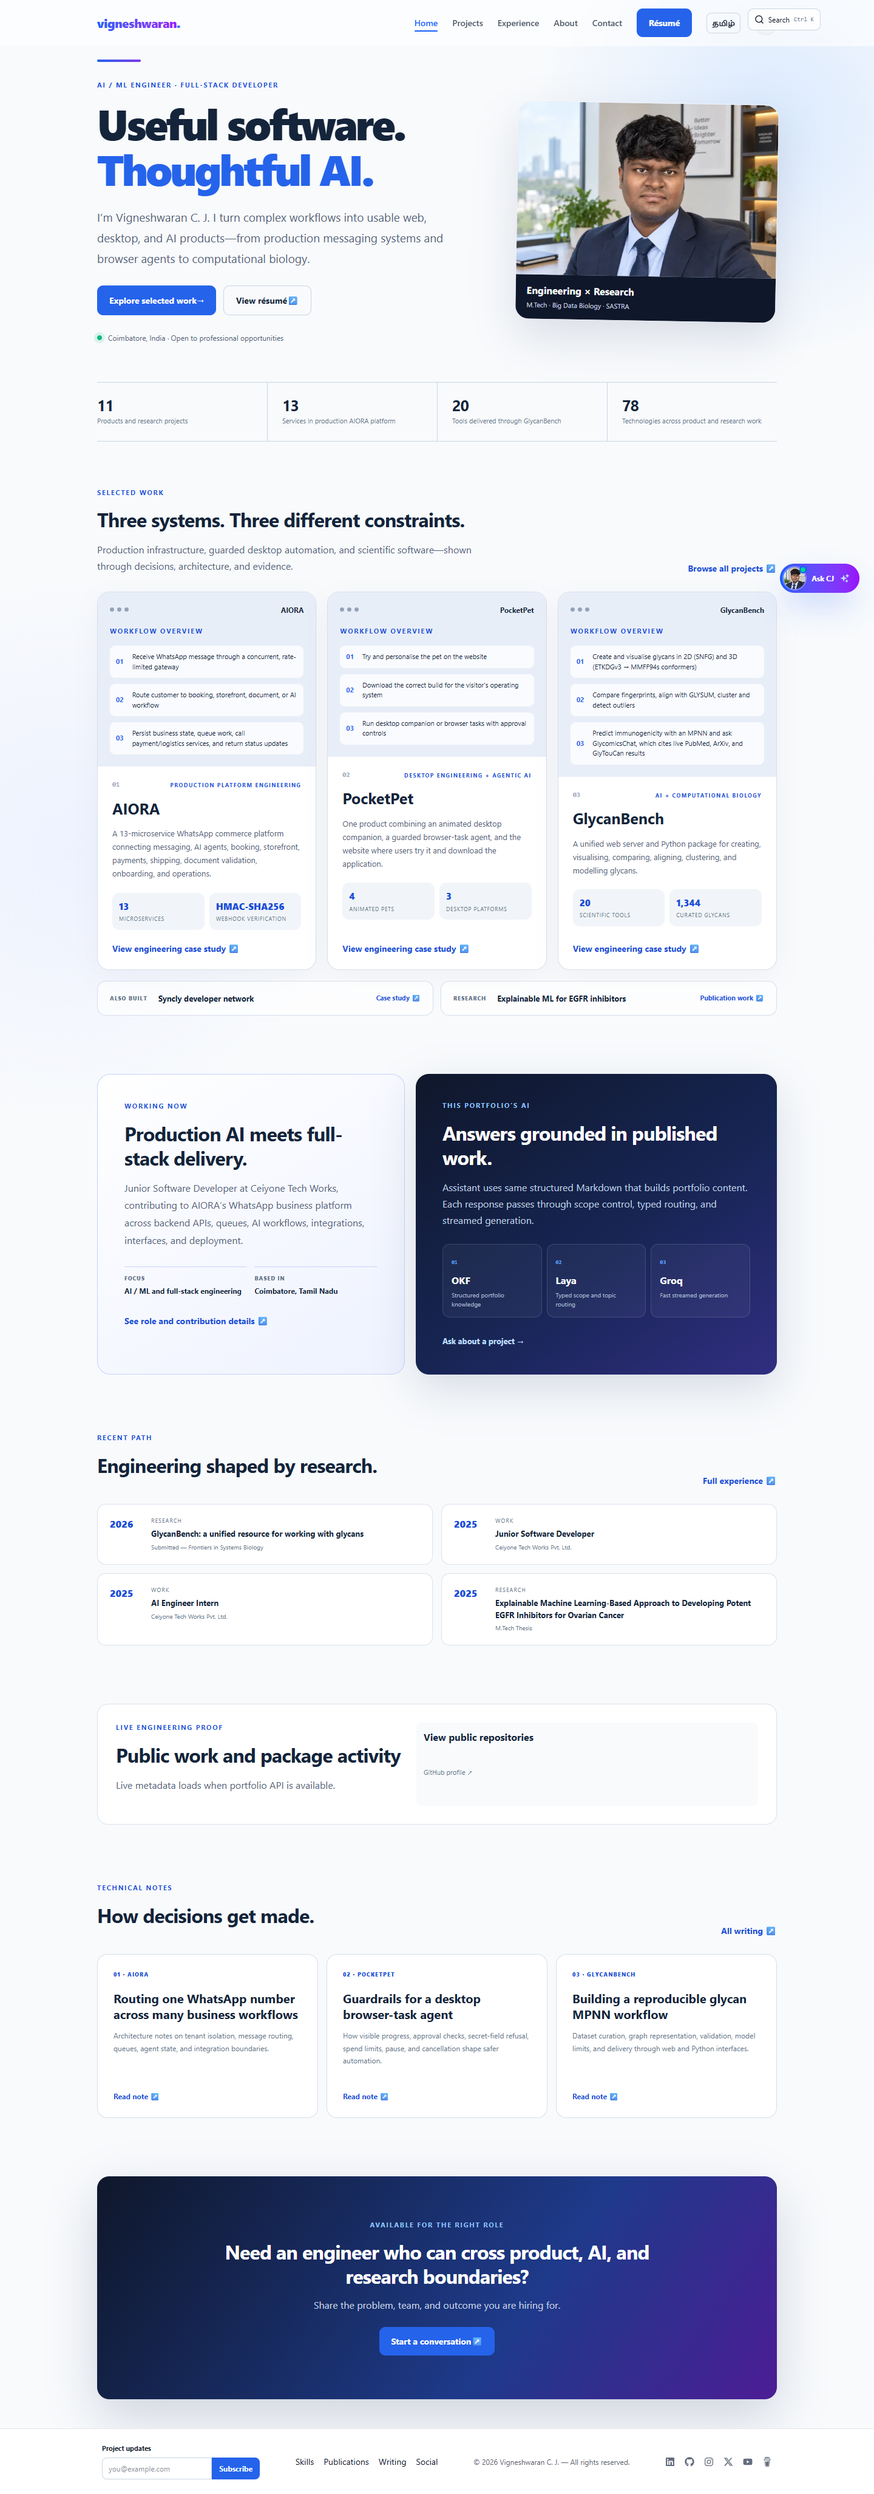
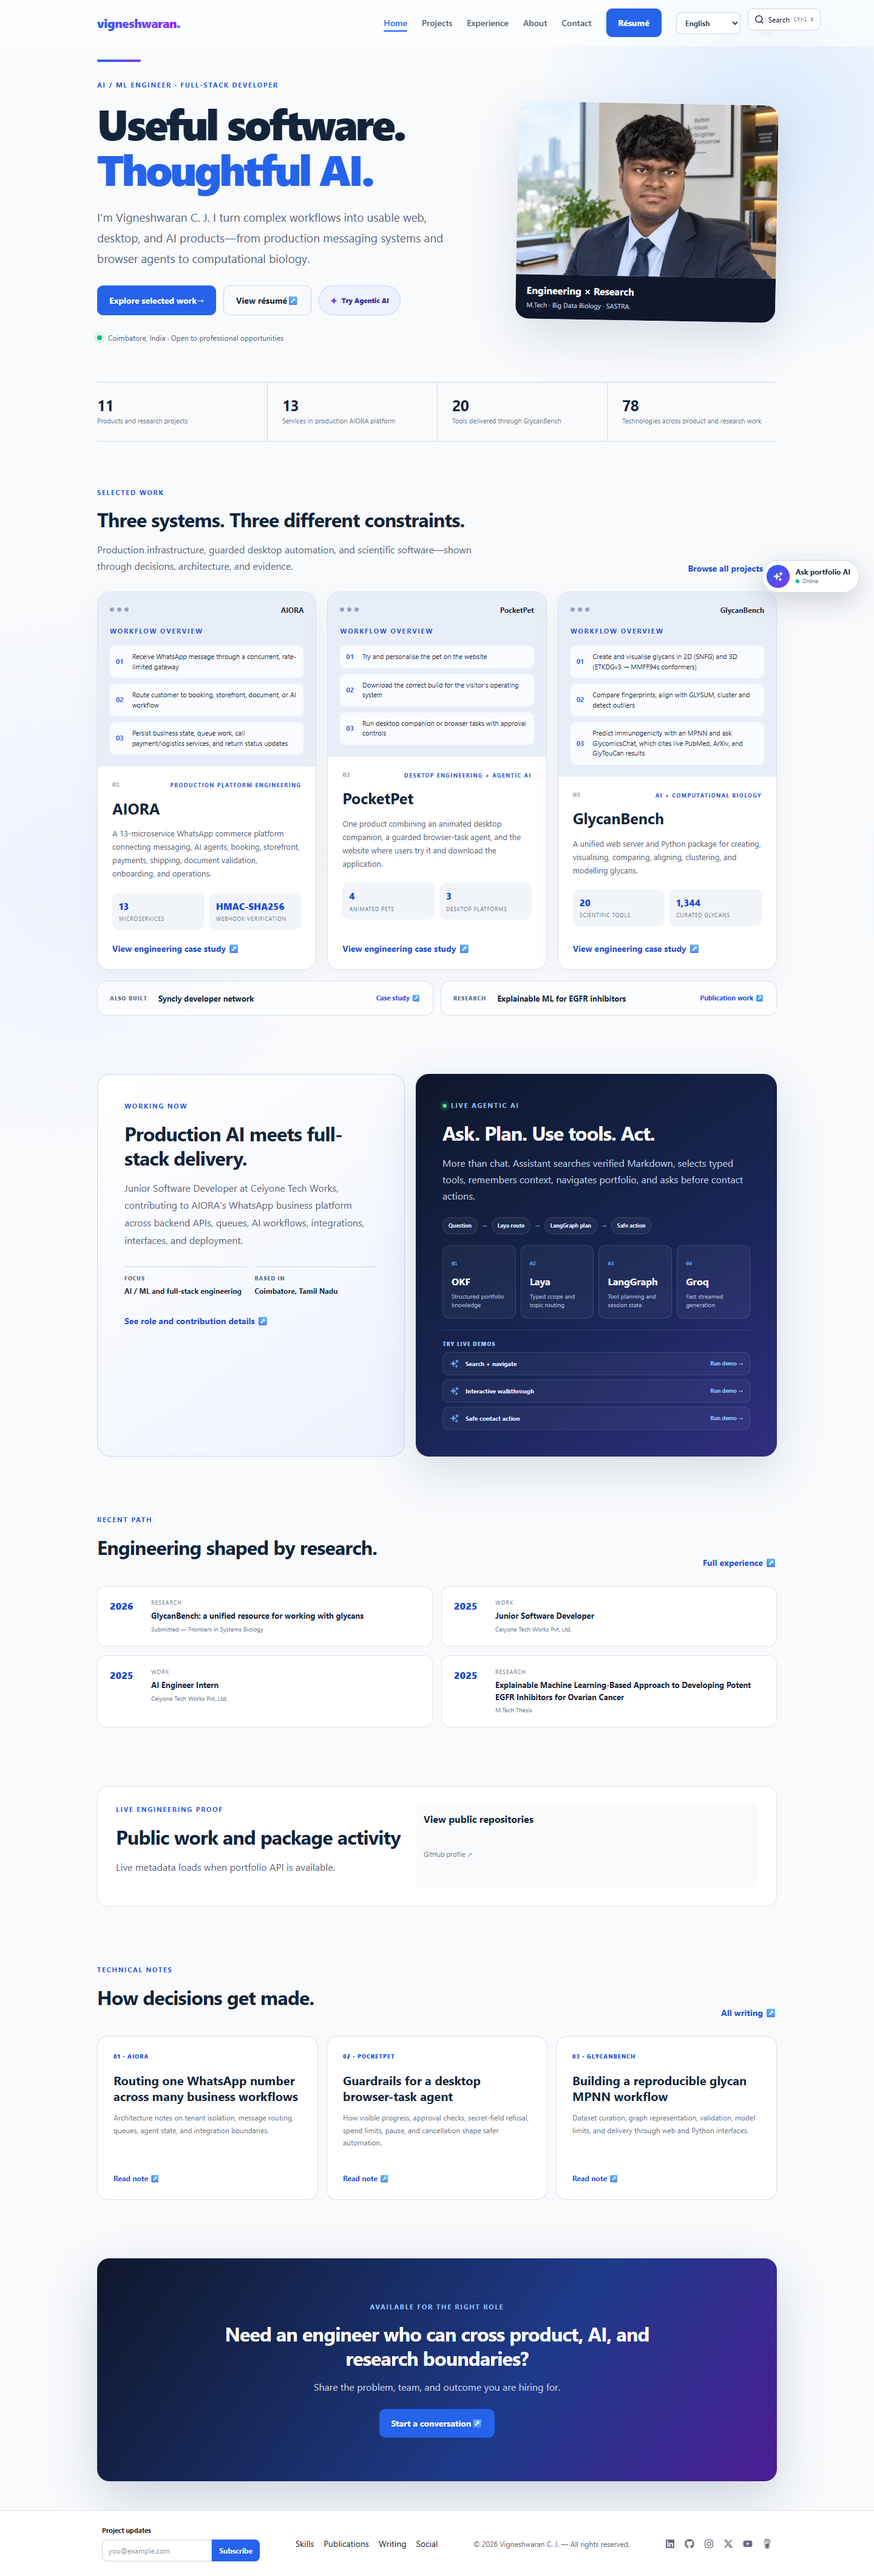
feat: enhance Portfolio Assistant with new agentic features and demo actions

diff --git a/index.css b/index.css
@@ -308,13 +308,23 @@ html[dir="rtl"] .fixed.right-6 { right: auto; left: 1.5rem; }
 .assistant-typing i { display: block; width: 6px; height: 6px; border-radius: 50%; background: #3b82f6; }
 
 .assistant-starters { margin: 4px 0 8px 35px; }
-.assistant-starters > p { margin-bottom: 8px; color: #64748b; font-size: 10px; font-weight: 750; text-transform: uppercase; letter-spacing: .08em; }
+.assistant-starter-heading { display: grid; gap: 3px; margin-bottom: 10px; }
+.assistant-starter-heading > div { display: flex; align-items: center; gap: 5px; color: #1d4ed8; }
+.assistant-starter-heading strong { font-size: 10px; font-weight: 800; text-transform: uppercase; letter-spacing: .08em; }
+.assistant-starter-heading p { color: #64748b; font-size: 9px; line-height: 1.4; }
+.dark .assistant-starter-heading > div { color: #93c5fd; }
+.dark .assistant-starter-heading p { color: #94a3b8; }
 .assistant-starter-grid { display: grid; grid-template-columns: repeat(2, minmax(0, 1fr)); gap: 7px; }
-.assistant-starter-grid button { display: flex; min-width: 0; min-height: 42px; align-items: center; gap: 7px; border: 1px solid #d7dfeb; border-radius: 11px; background: #fff; padding: 8px 9px; color: #334155; font-size: 10px; font-weight: 700; text-align: start; transition: border-color .15s ease, background .15s ease, transform .15s ease; }
+.assistant-starter-grid button { display: flex; min-width: 0; min-height: 55px; align-items: center; gap: 8px; border: 1px solid #d7dfeb; border-radius: 11px; background: #fff; padding: 8px 9px; color: #334155; font-size: 10px; font-weight: 700; text-align: start; transition: border-color .15s ease, background .15s ease, transform .15s ease; }
 .assistant-starter-grid button:hover { border-color: #93b4f8; background: #eff6ff; transform: translateY(-1px); }
-.assistant-starter-grid button span { flex: 0 0 auto; font-size: 14px; }
+.assistant-starter-grid button > span:first-child { display: grid; width: 25px; height: 25px; flex: 0 0 auto; place-items: center; border-radius: 8px; background: #eff6ff; color: #2563eb; font-size: 15px; }
+.assistant-starter-grid button > span:last-child { display: grid; min-width: 0; gap: 2px; }
+.assistant-starter-grid button strong { overflow: hidden; text-overflow: ellipsis; white-space: nowrap; }
+.assistant-starter-grid button small { color: #7b8797; font-size: 8px; font-weight: 600; line-height: 1.25; }
 .dark .assistant-starter-grid button { border-color: #334155; background: #142136; color: #dbe5f1; }
 .dark .assistant-starter-grid button:hover { border-color: #3b82f6; background: #172554; }
+.dark .assistant-starter-grid button > span:first-child { background: #172554; color: #93c5fd; }
+.dark .assistant-starter-grid button small { color: #94a3b8; }
 .assistant-resources { display: flex; flex-wrap: wrap; gap: 6px; margin-top: 11px; }
 .assistant-resources::before { content: "Explore:"; align-self: center; color: #7b8797; font-size: 9px; }
 .assistant-resources a { border-radius: 999px; background: #e8edf4; padding: 5px 8px; color: #526177; font-size: 9px; font-weight: 700; }
@@ -545,16 +555,30 @@ html[dir="rtl"] .fixed.right-6 { right: auto; left: 1.5rem; }
 .dark .current-role-card dl div { border-color: #43558a; }
 .current-role-card dt { color: #64748b; font-size: 9px; font-weight: 800; letter-spacing: .1em; text-transform: uppercase; }
 .current-role-card dd { margin-top: 5px; font-size: 12px; font-weight: 650; }
-.assistant-architecture-card { color: white; background: linear-gradient(145deg, #0f172a, #172554 55%, #312e81); box-shadow: 0 24px 70px #17255426; }
+.agentic-action { display: inline-flex; min-height: 44px; align-items: center; justify-content: center; gap: 7px; border: 1px solid #c7d2fe; border-radius: 999px; background: #eef2ff; padding: 0 18px; color: #3730a3; font-size: 11px; font-weight: 800; transition: transform .18s ease, border-color .18s ease, background .18s ease; }
+.agentic-action:hover { transform: translateY(-2px); border-color: #818cf8; background: #e0e7ff; }
+.agentic-action span { color: #7c3aed; font-size: 14px; }
+.dark .agentic-action { border-color: #4338ca; background: #172554; color: #c7d2fe; }
+.assistant-architecture-card { min-width: 0; overflow: hidden; color: white; background: linear-gradient(145deg, #0f172a, #172554 55%, #312e81); box-shadow: 0 24px 70px #17255426; }
 .assistant-architecture-card .eyebrow { color: #93c5fd; }
+.agentic-card-heading .eyebrow { display: flex; align-items: center; gap: 7px; }
+.agentic-card-heading .eyebrow i { width: 7px; height: 7px; border-radius: 50%; background: #4ade80; box-shadow: 0 0 0 5px #4ade8020; }
 .assistant-architecture-card > div > p:not(.eyebrow) { color: #bfcee2; line-height: 1.7; }
-.assistant-architecture-card ol { display: grid; grid-template-columns: repeat(3, 1fr); gap: 8px; margin-block: 26px; }
+.agentic-flow { display: flex; width: 100%; max-width: 100%; align-items: center; gap: 7px; margin-top: 22px; overflow-x: auto; color: #93c5fd; white-space: nowrap; scrollbar-width: none; }
+.agentic-flow span { border: 1px solid #ffffff20; border-radius: 999px; background: #ffffff0c; padding: 6px 9px; color: #dbeafe; font-size: 9px; font-weight: 750; }
+.agentic-flow b { color: #60a5fa; font-size: 10px; }
+.assistant-architecture-card ol { display: grid; grid-template-columns: repeat(4, 1fr); gap: 8px; margin-block: 18px; }
 .assistant-architecture-card li { min-width: 0; padding: 14px; border: 1px solid #ffffff21; border-radius: 12px; background: #ffffff0b; }
 .assistant-architecture-card li > span { color: #60a5fa; font: 700 9px/1 ui-monospace, monospace; }
 .assistant-architecture-card li strong { display: block; margin-block: 9px 5px; }
 .assistant-architecture-card li p { color: #aebdd2; font-size: 10px; line-height: 1.45; }
-.assistant-hint { color: #bfdbfe; font-size: 13px; font-weight: 700; }
-.assistant-hint:hover { color: white; }
+.agentic-demo-list { display: grid; gap: 7px; padding-top: 16px; border-top: 1px solid #ffffff1f; }
+.agentic-demo-list > span { color: #93c5fd; font-size: 9px; font-weight: 800; letter-spacing: .1em; text-transform: uppercase; }
+.agentic-demo-list button { display: grid; grid-template-columns: 18px 1fr auto; align-items: center; gap: 8px; border: 1px solid #ffffff1c; border-radius: 10px; background: #ffffff0a; padding: 10px 11px; color: #e0e7ff; text-align: start; transition: border-color .15s ease, background .15s ease, transform .15s ease; }
+.agentic-demo-list button:hover { transform: translateX(3px); border-color: #60a5fa; background: #ffffff12; }
+.agentic-demo-list button svg { color: #60a5fa; }
+.agentic-demo-list button strong { font-size: 10px; }
+.agentic-demo-list button em { color: #93c5fd; font-size: 9px; font-style: normal; font-weight: 750; }
 .timeline-section .career-timeline { grid-template-columns: repeat(2, minmax(0, 1fr)); }
 .timeline-section .career-timeline li { padding: 20px; }
 .timeline-section .career-timeline strong { font-size: 13px; }

diff --git a/src/pages/Home.js b/src/pages/Home.js
@@ -1,4 +1,5 @@
 import { Link } from "react-router";
+import { HiSparkles } from "react-icons/hi2";
 import portrait640 from "url:../assets/portrait-640.webp";
 import portrait960 from "url:../assets/portrait-960.webp";
 import portrait1536 from "url:../assets/portrait-1536.webp";
@@ -19,6 +20,15 @@ const ASSISTANT_STACK = [
   ["LangGraph", "Tool planning and session state"],
   ["Groq", "Fast streamed generation"],
 ];
+const AGENT_DEMOS = [
+  ["Search + navigate", "Find Vigneshwaran's strongest Agentic AI project, explain why, and show it."],
+  ["Interactive walkthrough", "Give me a step-by-step walkthrough of AIORA architecture."],
+  ["Safe contact action", "I want to hire Vigneshwaran for an AI engineering role. Prepare a contact action."],
+];
+
+function openAgent(question = "", autoSubmit = false) {
+  window.dispatchEvent(new CustomEvent("portfolio-assistant:open", { detail: { question, autoSubmit } }));
+}
 
 function FeaturedProject({ slug, position }) {
   const study = caseStudies[slug];
@@ -59,6 +69,7 @@ export default function Home() {
           <div className="action-row">
             <Link className="primary-action" to="/projects">{copy.work} <span aria-hidden="true">→</span></Link>
             <Link className="secondary-action" to="/resume" onClick={() => trackConversion("resume_view", { source: "home" })}>{copy.resume} <span aria-hidden="true">↗</span></Link>
+            <button type="button" className="agentic-action" onClick={() => openAgent()}><span>✦</span> Try Agentic AI</button>
           </div>
           <div className="hero-status"><span className="availability-dot" /><span>{copy.note}</span></div>
         </div>
@@ -101,9 +112,10 @@ export default function Home() {
           <Link className="text-link" to="/experience">See role and contribution details ↗</Link>
         </article>
         <article className="assistant-architecture-card">
-          <div><p className="eyebrow">This portfolio’s AI</p><h2>Answers grounded in published work.</h2><p>Assistant uses same structured Markdown that builds portfolio content. LangGraph selects typed tools, preserves session context, and streams validated portfolio actions with each grounded answer.</p></div>
+          <div className="agentic-card-heading"><p className="eyebrow"><i /> Live Agentic AI</p><h2>Ask. Plan. Use tools. Act.</h2><p>More than chat. Assistant searches verified Markdown, selects typed tools, remembers context, navigates portfolio, and asks before contact actions.</p></div>
+          <div className="agentic-flow" aria-label="Agent flow"><span>Question</span><b>→</b><span>Laya route</span><b>→</b><span>LangGraph plan</span><b>→</b><span>Safe action</span></div>
           <ol>{ASSISTANT_STACK.map(([name, detail], index) => <li key={name}><span>0{index + 1}</span><div><strong>{name}</strong><p>{detail}</p></div></li>)}</ol>
-          <button type="button" className="assistant-hint" onClick={() => document.querySelector('[aria-label="Ask CJ\'s AI"]')?.click()}>Ask about a project <span aria-hidden="true">→</span></button>
+          <div className="agentic-demo-list"><span>Try live demos</span>{AGENT_DEMOS.map(([label, question]) => <button type="button" key={label} onClick={() => openAgent(question, true)}><HiSparkles aria-hidden="true" /> <strong>{label}</strong><em>Run demo →</em></button>)}</div>
         </article>
       </section>
 

diff --git a/src/Components/PortfolioAssistant.js b/src/Components/PortfolioAssistant.js
@@ -121,7 +121,10 @@ function MessageBubble({ msg, feedback, onEdit, onFeedback, onFollowup, onRegene
 function StarterPanel({ loading, activeChip, onSelect, onNavigate }) {
   return (
     <section className="assistant-starters" aria-label="Suggested questions">
-      <p>Try a question</p>
+      <div className="assistant-starter-heading">
+        <div><HiSparkles /><strong>Experience Agentic AI</strong></div>
+        <p>Choose a demo. Agent selects tools and shows each action.</p>
+      </div>
       <div className="assistant-starter-grid">
         {STARTER_QUESTIONS.map((question, index) => (
           <button
@@ -132,7 +135,7 @@ function StarterPanel({ loading, activeChip, onSelect, onNavigate }) {
             className={activeChip === index ? "is-active" : ""}
           >
             <span aria-hidden="true">{question.icon}</span>
-            {question.text}
+            <span><strong>{question.title}</strong><small>{question.capability}</small></span>
           </button>
         ))}
       </div>
@@ -213,6 +216,18 @@ export default function PortfolioAssistant() {
     loading, sendMessage, clearChat, stopResponse, sessions, activeSessionId,
     newChat, switchSession, renameSession, deleteSession, usageRemaining,
   } = useAssistantChat(language);
+
+  useEffect(() => {
+    const openFromPage = (event) => {
+      const question = typeof event.detail?.question === "string" ? event.detail.question : "";
+      setOpen(true);
+      if (!question) return;
+      setInput(question);
+      if (event.detail?.autoSubmit && !loading) sendMessage(question);
+    };
+    window.addEventListener("portfolio-assistant:open", openFromPage);
+    return () => window.removeEventListener("portfolio-assistant:open", openFromPage);
+  }, [loading, sendMessage, setInput]);
 
   const closePanel = () => {
     recognitionRef.current?.stop();
@@ -441,7 +456,7 @@ export default function PortfolioAssistant() {
             </header>
 
             <div ref={scrollRef} onScroll={handleScroll} role="log" aria-live="polite" aria-relevant="additions text" aria-busy={loading} className="assistant-conversation">
-              <div className="assistant-context-note"><span>OKF</span><span>Laya</span><span>LangGraph</span><span>Groq</span><p>Grounded answers with safe portfolio tools</p></div>
+              <div className="assistant-context-note"><span>OKF</span><span>Laya</span><span>LangGraph</span><span>Groq</span><p>Plans · uses tools · acts safely</p></div>
               {messages.map((message) => (
                 <MessageBubble
                   key={message.id}

diff --git a/src/features/assistant/constants.js b/src/features/assistant/constants.js
@@ -1,12 +1,42 @@
 export const MAX_HISTORY = 20;
 
 export const STARTER_QUESTIONS = [
-  { text: "Main skills?", icon: "⚡" },
-  { text: "Tell me about Syncly", icon: "🚀" },
-  { text: "GlycanBench?", icon: "🧬" },
-  { text: "Research focus", icon: "🔬" },
-  { text: "His tech stack", icon: "💻" },
-  { text: "Current job?", icon: "🏢" },
+  {
+    title: "Find my best match",
+    text: "Find Vigneshwaran's strongest Agentic AI project, explain why, and show it.",
+    capability: "Search · reason · navigate",
+    icon: "⌕",
+  },
+  {
+    title: "Inspect safety",
+    text: "Show me PocketPet and explain its approval gates and safety controls.",
+    capability: "Retrieve · highlight",
+    icon: "◇",
+  },
+  {
+    title: "Start a walkthrough",
+    text: "Give me a step-by-step walkthrough of AIORA architecture.",
+    capability: "Plan · interactive tour",
+    icon: "→",
+  },
+  {
+    title: "Review research",
+    text: "Show GlycanBench and explain its scientific evidence and limitations.",
+    capability: "Grounded project search",
+    icon: "∿",
+  },
+  {
+    title: "Evaluate experience",
+    text: "Summarize Vigneshwaran's production AI experience and open his résumé.",
+    capability: "Multi-source answer",
+    icon: "▤",
+  },
+  {
+    title: "Prepare contact",
+    text: "I want to hire Vigneshwaran for an AI engineering role. Prepare a contact action.",
+    capability: "Confirmed action",
+    icon: "+",
+  },
 ];
 
 export const createId = () => Date.now() + Math.random();
@@ -14,7 +44,7 @@ export const createId = () => Date.now() + Math.random();
 export const createInitialMessage = () => ({
   id: 1,
   from: "bot",
-  text: "Hey! I'm CJ's AI — ask me anything about Vigneshwaran's work, projects, or background.",
+  text: "I'm CJ's portfolio agent. I can search verified work, choose approved tools, guide you through projects, and prepare safe portfolio actions. Try a live capability below.",
   ts: Date.now(),
   done: true,
 });
